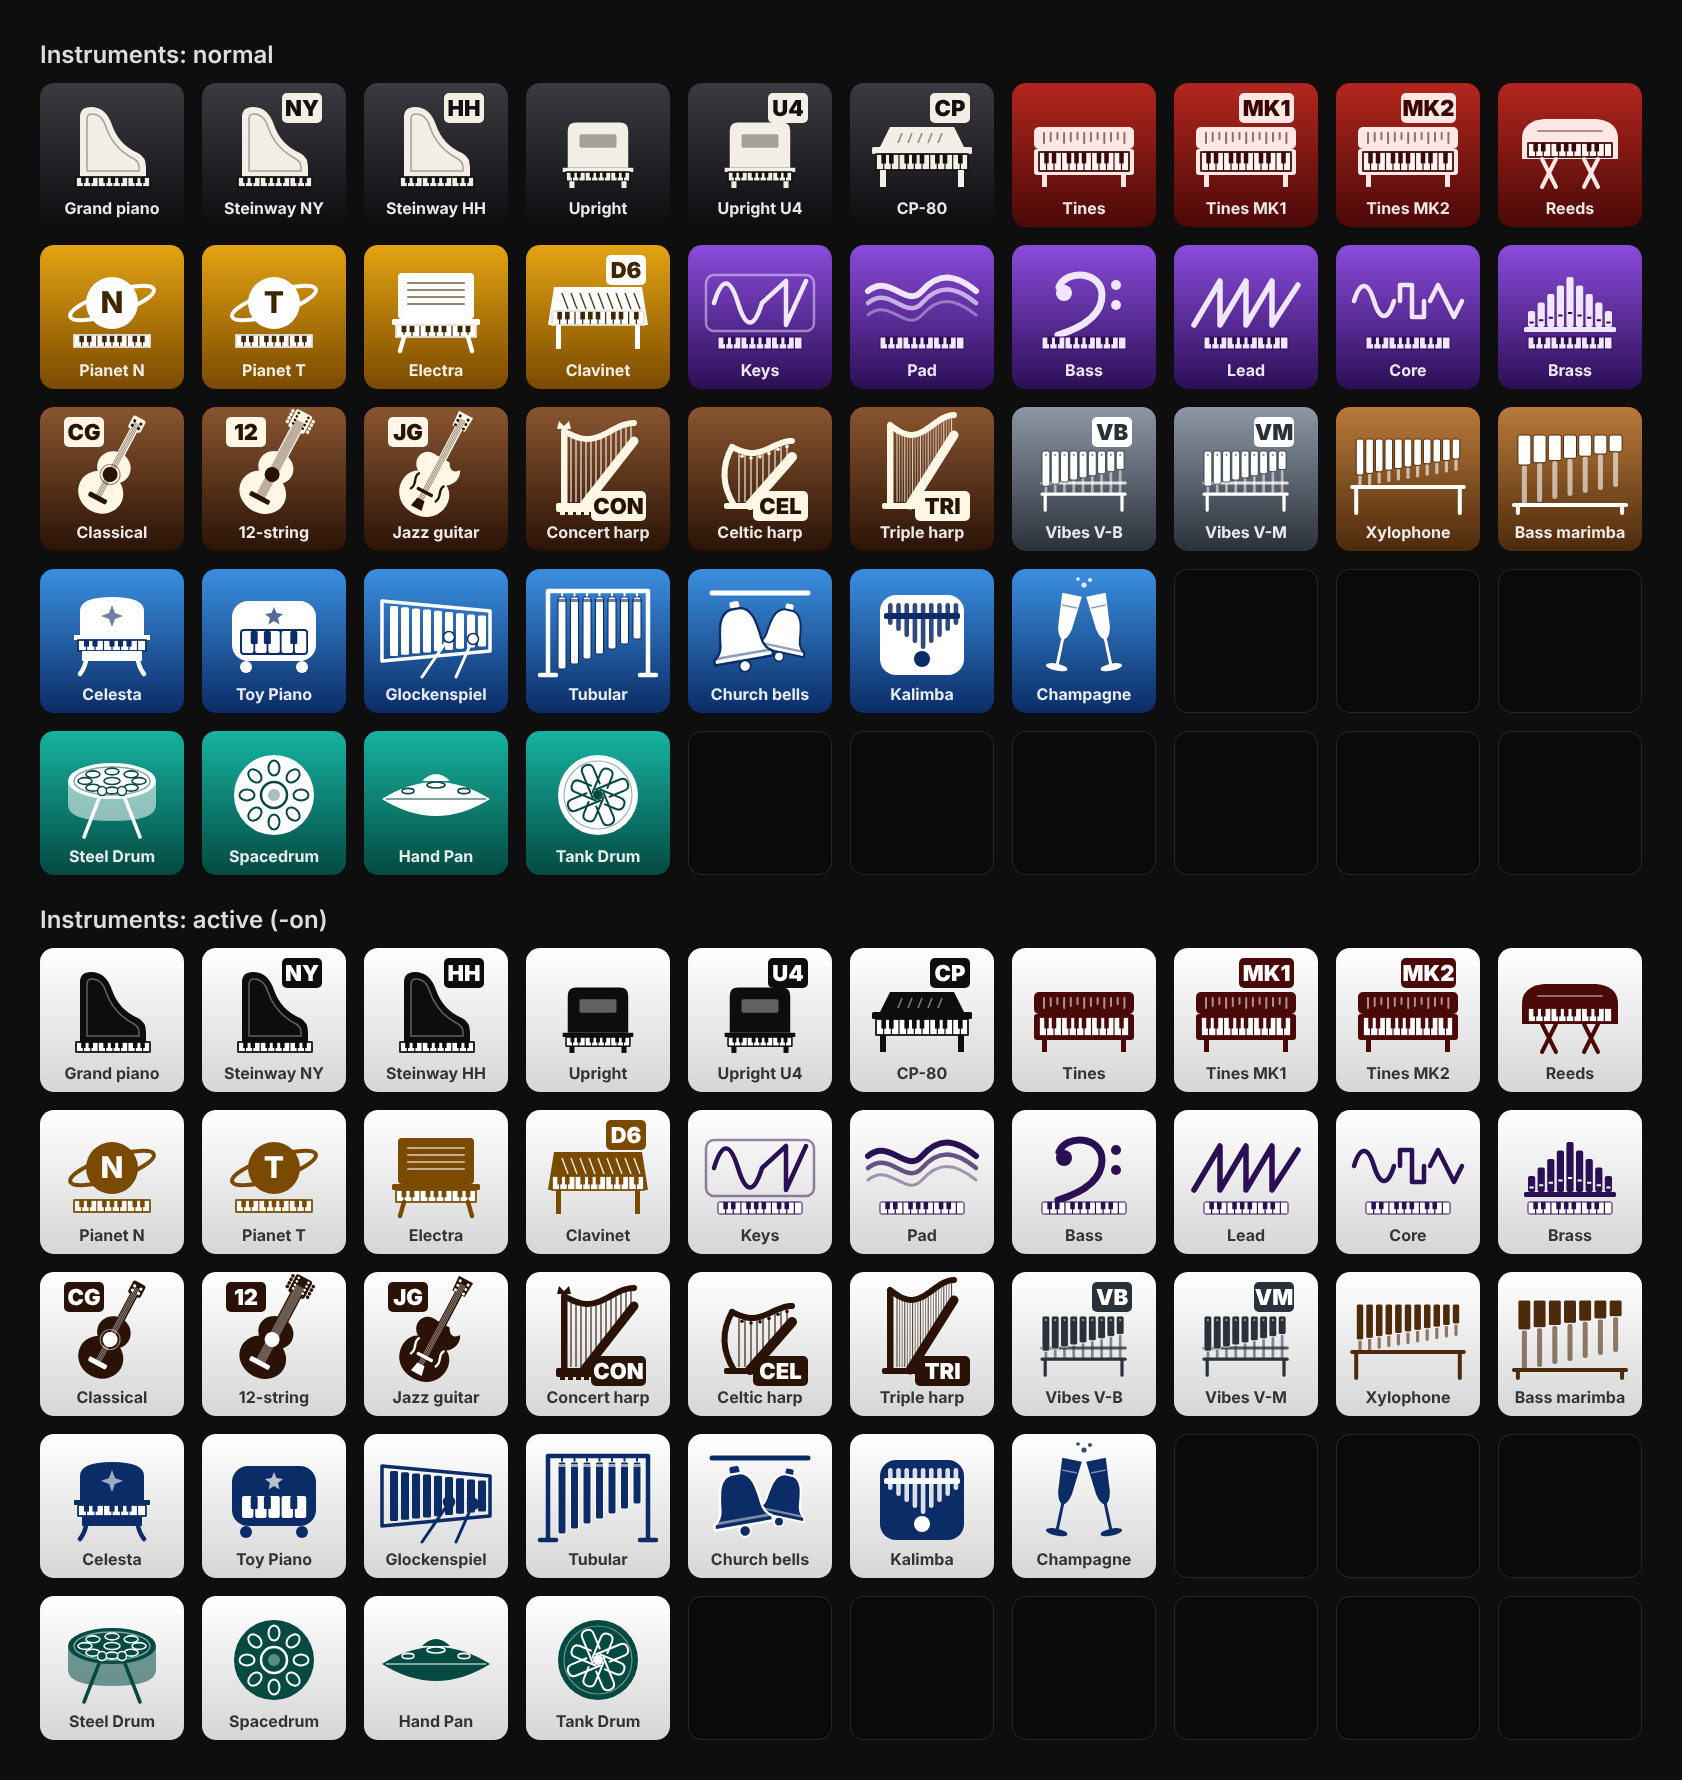
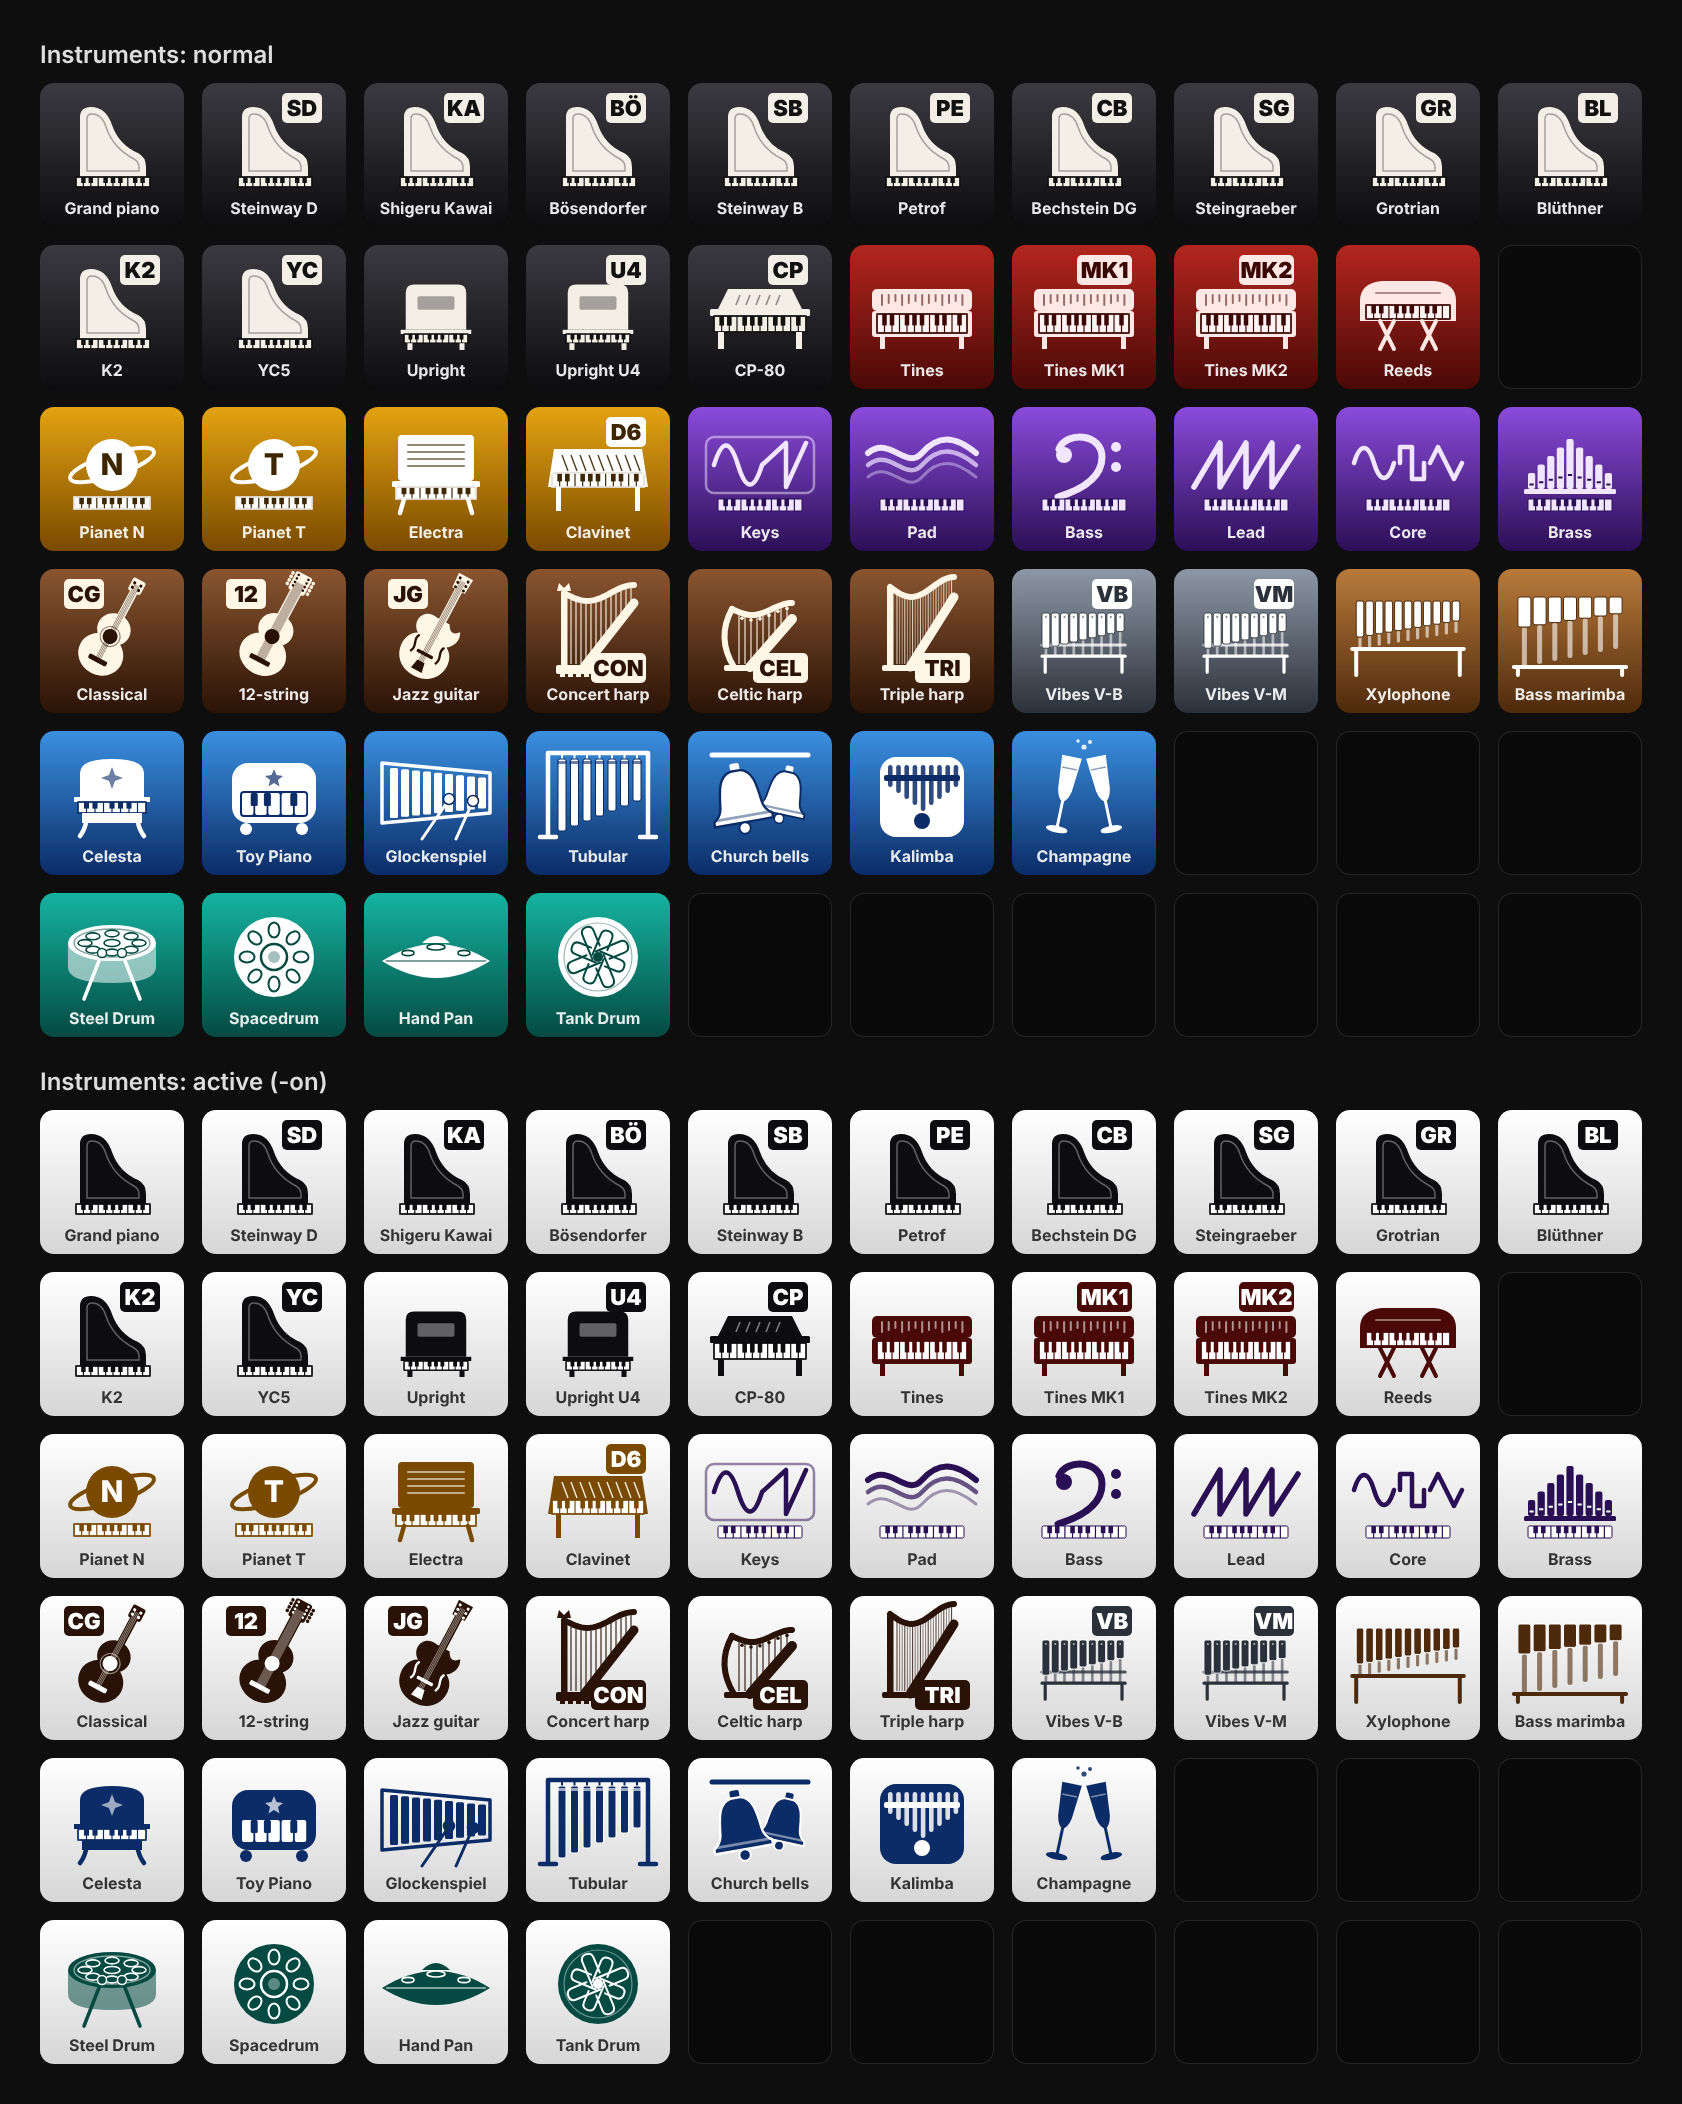
Grand pianos: model badges instead of Steinway NY/HH
Replace steinway-d-ny / steinway-d-hh with eleven grand piano models,
each badged with a two-letter model code (SD, KA, BÖ, SB, PE, CB, SG,
GR, BL, K2, YC). The generic grand-piano keeps no badge. Grands fill
row 1 and the start of row 2 on the instruments preview.

Claude-Session: https://claude.ai/code/session_01MK3Kvfpz5cvrZS4PvSHer6

diff --git a/src/sets.js b/src/sets.js
@@ -4,13 +4,19 @@
 const I = (id, theme, glyph, badge, title) => ({ id, theme, glyph, badge, title });
 
 const INSTRUMENTS = [
+  // Grand pianos: badge = model (generic has none).
   [I('grand-piano', 'piano', 'grand', null, 'Grand piano'),
-    I('steinway-d-ny', 'piano', 'grand', 'NY', 'Steinway NY'), I('steinway-d-hh', 'piano', 'grand', 'HH', 'Steinway HH'),
+    I('grand-steinway-d', 'piano', 'grand', 'SD', 'Steinway D'), I('grand-shigeru-kawai', 'piano', 'grand', 'KA', 'Shigeru Kawai'),
+    I('grand-bosendorfer', 'piano', 'grand', 'BÖ', 'Bösendorfer'), I('grand-steinway-b', 'piano', 'grand', 'SB', 'Steinway B'),
+    I('grand-petrof', 'piano', 'grand', 'PE', 'Petrof'), I('grand-bechstein', 'piano', 'grand', 'CB', 'Bechstein DG'),
+    I('grand-steingraeber', 'piano', 'grand', 'SG', 'Steingraeber'), I('grand-grotrian', 'piano', 'grand', 'GR', 'Grotrian'),
+    I('grand-bluthner', 'piano', 'grand', 'BL', 'Blüthner')],
+  [I('grand-k2', 'piano', 'grand', 'K2', 'K2'), I('grand-yc5', 'piano', 'grand', 'YC', 'YC5'),
     I('upright', 'piano', 'upright', null, 'Upright'), I('upright-u4', 'piano', 'upright', 'U4', 'Upright U4'),
     I('cp80', 'piano', 'cp80', 'CP', 'CP-80'),
     I('tines', 'electric', 'tines', null, 'Tines'),
     I('tines-mk1', 'electric', 'tines', 'MK1', 'Tines MK1'), I('tines-mk2', 'electric', 'tines', 'MK2', 'Tines MK2'),
-    I('reeds', 'electric', 'reeds', null, 'Reeds')],
+    I('reeds', 'electric', 'reeds', null, 'Reeds'), null],
   [I('pianet-n', 'hohner', 'planet:N', null, 'Pianet N'), I('pianet-t', 'hohner', 'planet:T', null, 'Pianet T'),
     I('electra-piano', 'hohner', 'electra', null, 'Electra'), I('clavinet-d6', 'hohner', 'clavinet', 'D6', 'Clavinet'),
     I('syngular-keys', 'synth', 'synth', null, 'Keys'), I('syngular-pad', 'synth', 'pad', null, 'Pad'),
